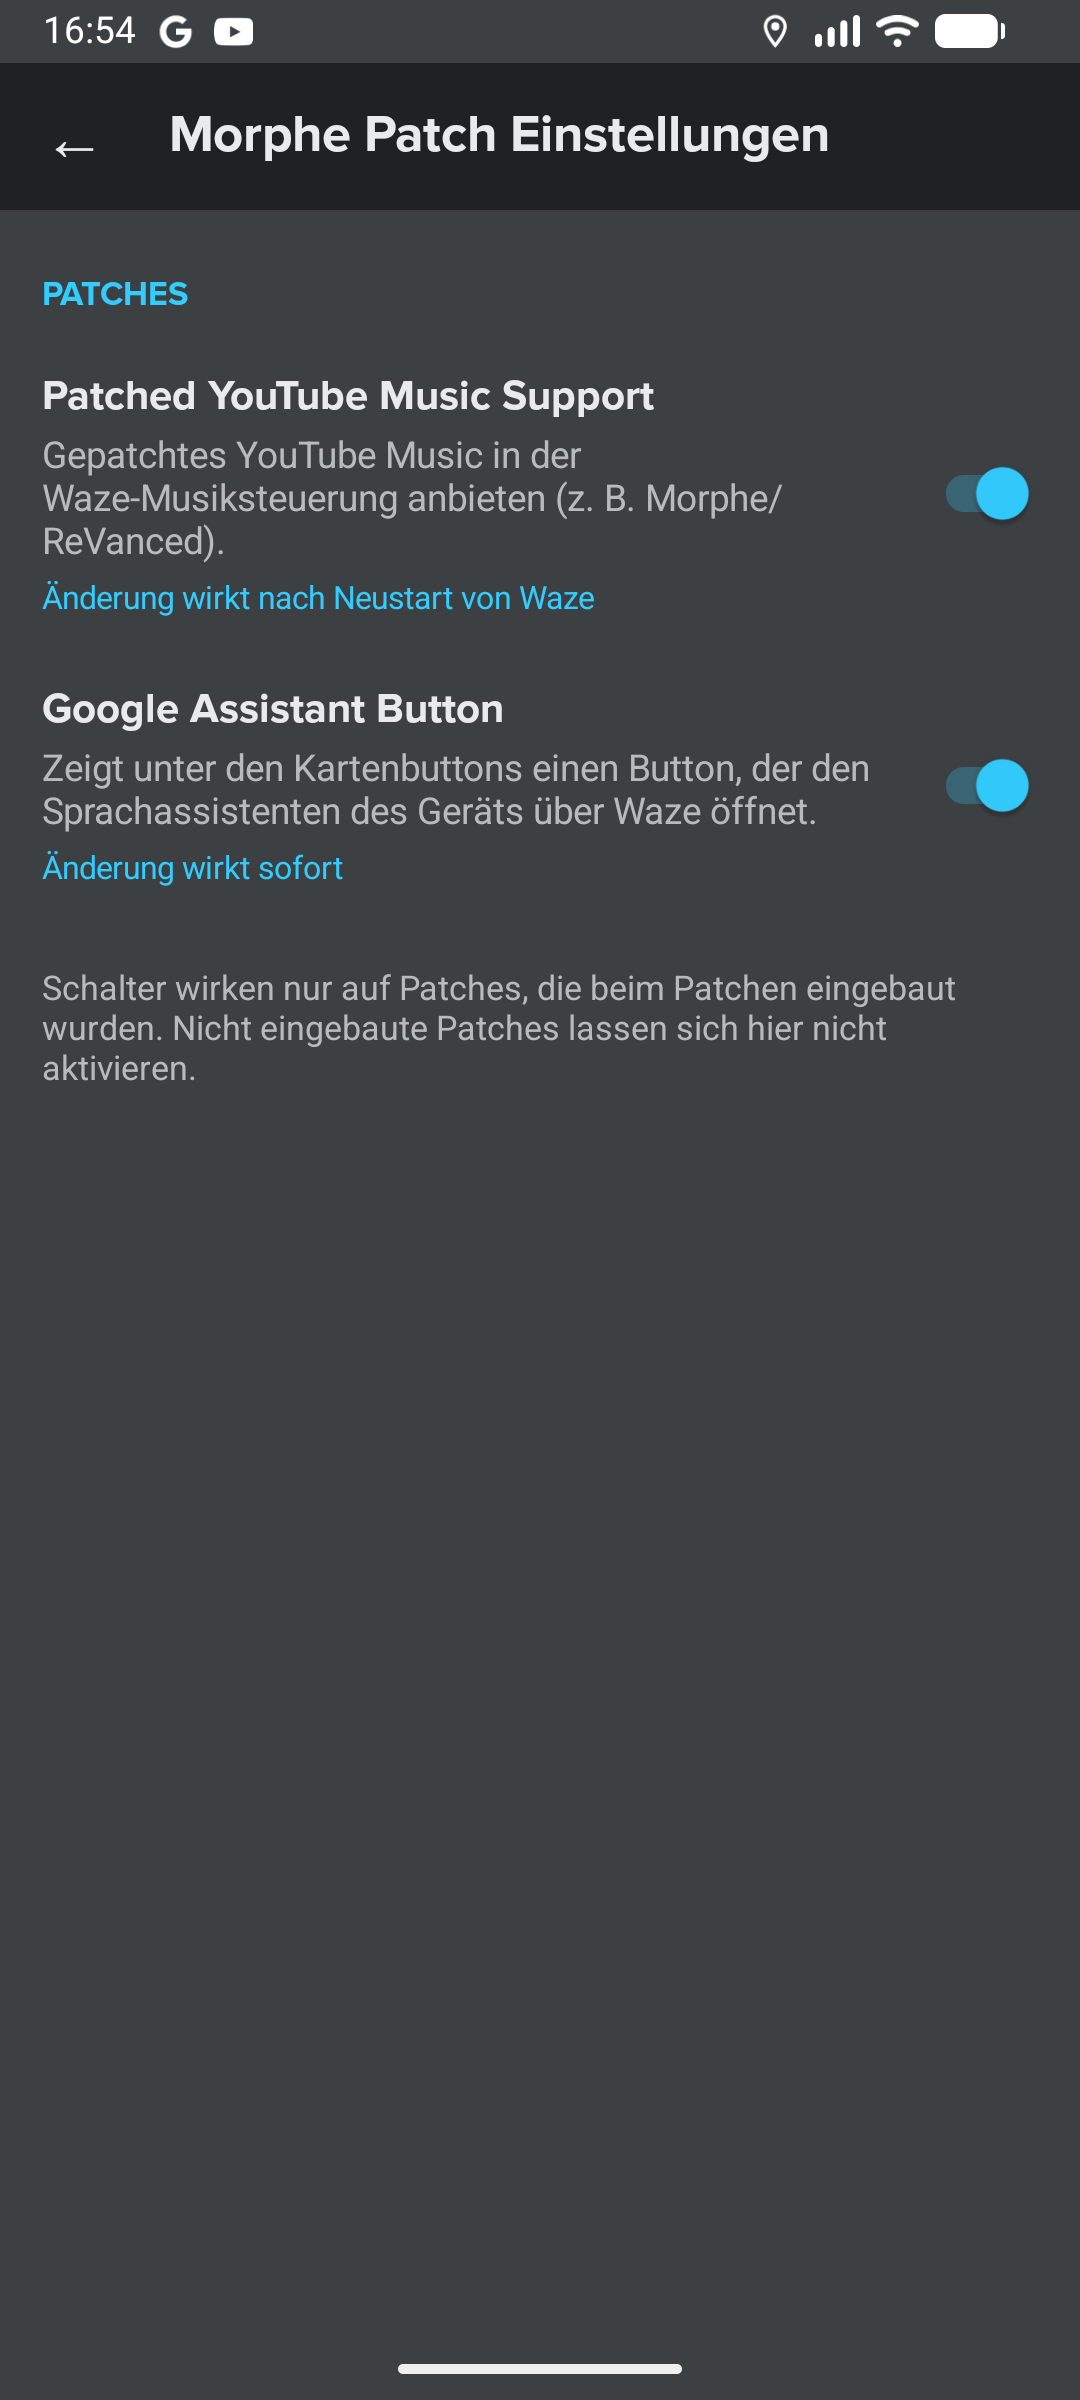
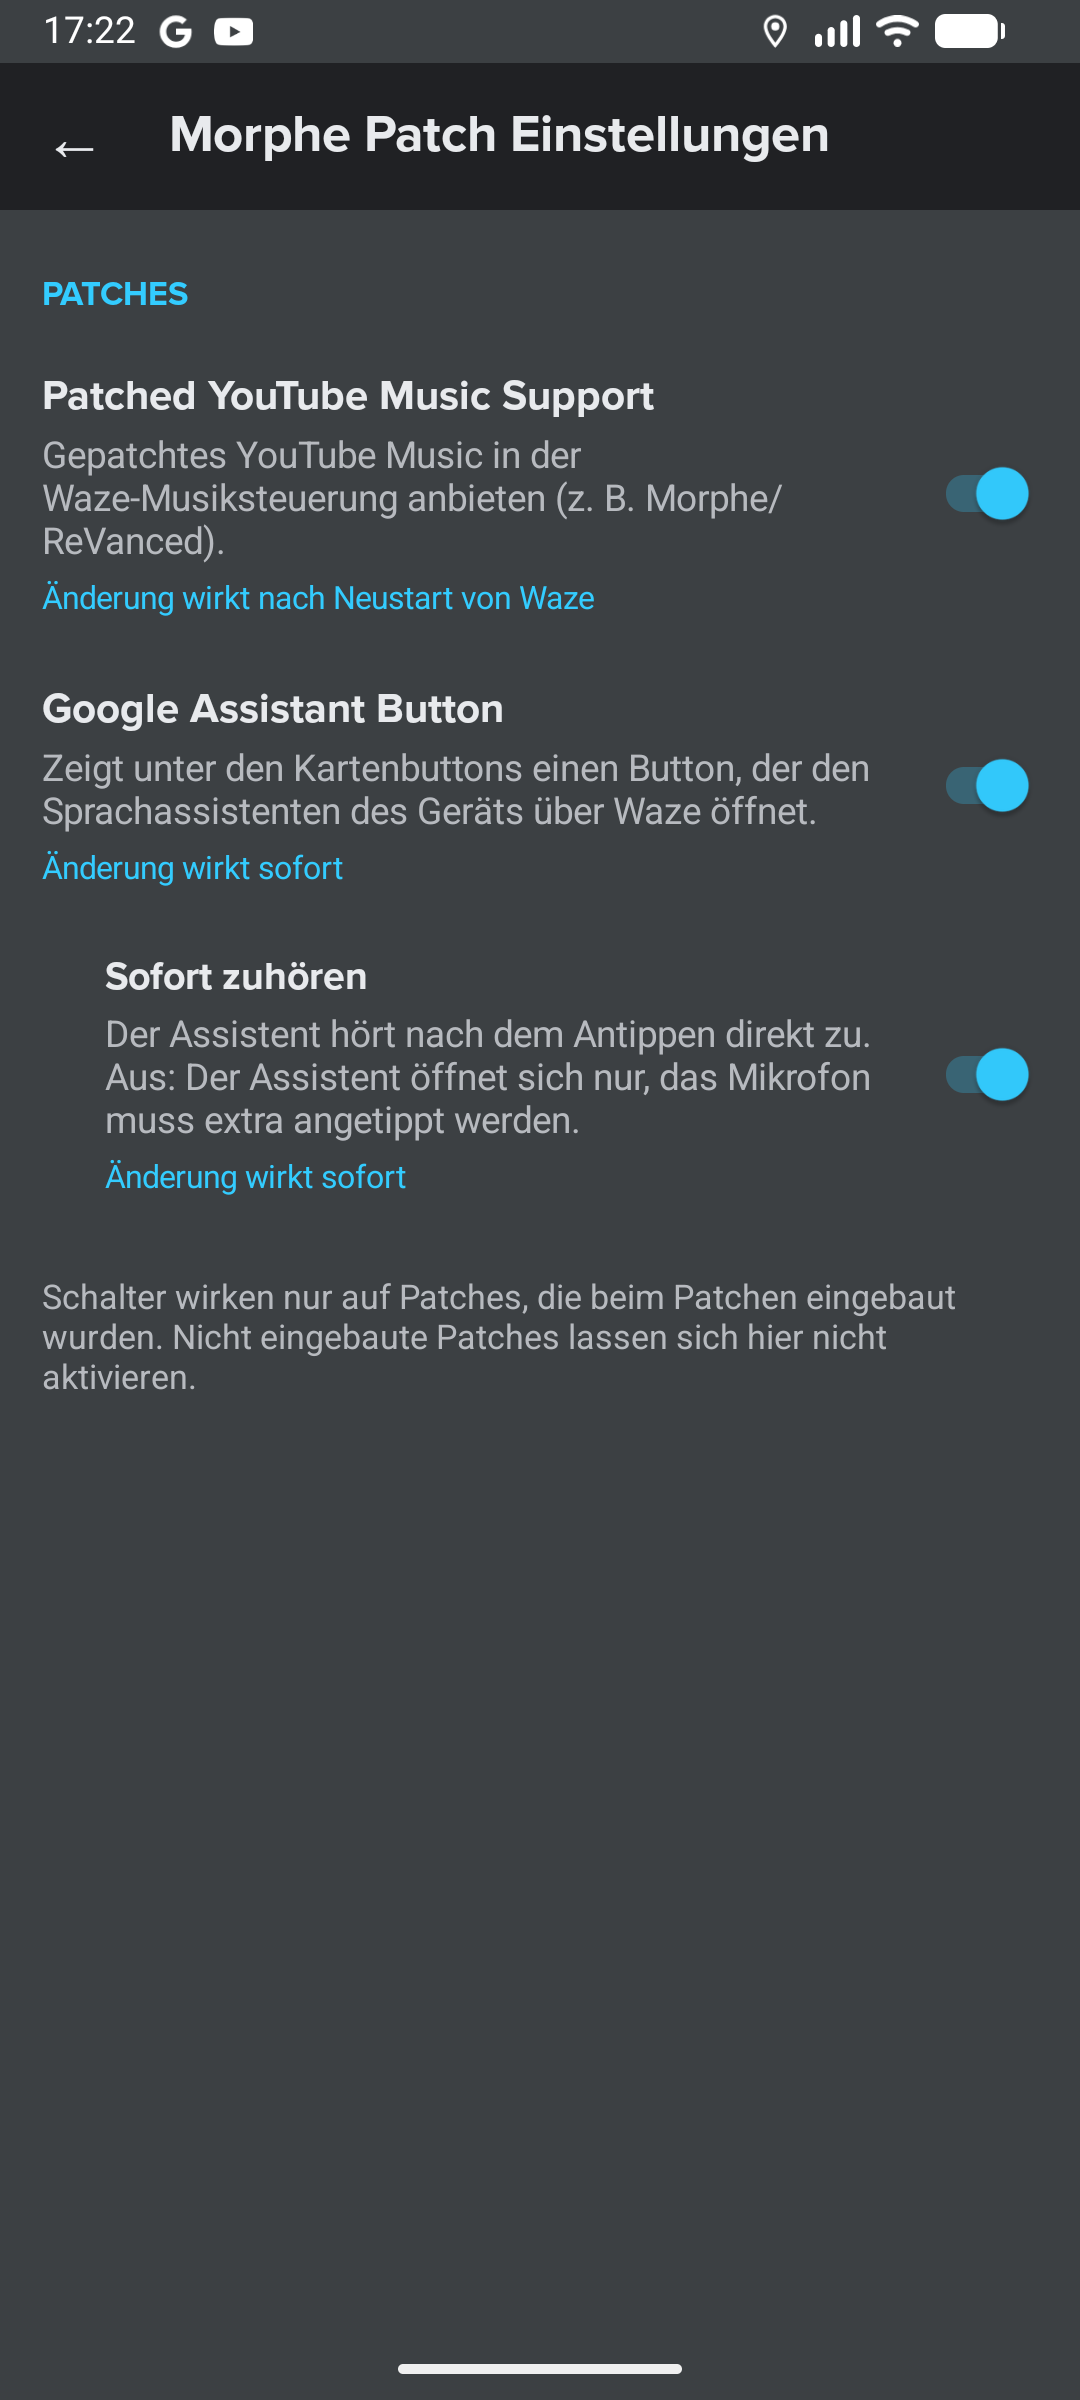
feat: Add "Listen immediately" option for the assistant button
The assistant starts listening right after tapping the map button
(Intent.ACTION_VOICE_COMMAND). It can be turned off in the Morphe patch
settings to only open the assistant like before (Activity.showAssist).
The option is shown below the assistant button switch and is disabled
while the button is off.

Changed region(s): [[0.0306, 0.4062, 0.9472, 0.5], [0.0306, 0.5312, 0.8861, 0.5938], [0.0611, 0.0, 0.1222, 0.0312]]

diff --git a/extensions/waze/src/main/java/app/wazeytm/extension/waze/assistant/AssistantLauncher.java b/extensions/waze/src/main/java/app/wazeytm/extension/waze/assistant/AssistantLauncher.java
@@ -9,17 +9,20 @@ import android.os.Bundle;
 import android.util.Log;
 import android.widget.Toast;
 
+import app.wazeytm.extension.waze.settings.MorpheSettings;
+
 import static app.wazeytm.extension.waze.settings.MorpheSettings.text;
 
 /**
- * Starts the assistant that is configured on the device.
- * <ol>
- *   <li>{@link Activity#showAssist(Bundle)}: Asks the system to show the current assistant
- *   (the same as long pressing home or "Hey Google"). The assistant shows its session on top of
- *   Waze, Waze stays the foreground app.</li>
- *   <li>{@link Intent#ACTION_VOICE_COMMAND}: Fallback, opens the voice command activity of the
- *   assistant app. Depending on the assistant this can cover Waze.</li>
- * </ol>
+ * Starts the assistant that is configured on the device. Both ways show the assistant
+ * on top of Waze (tested with Gemini in the Google app), Waze stays visible below it.
+ * <ul>
+ *   <li>{@link Intent#ACTION_VOICE_COMMAND}: the assistant opens and starts listening.
+ *   Used if "Listen immediately" is enabled.</li>
+ *   <li>{@link Activity#showAssist(Bundle)}: the same as long pressing home. The assistant opens,
+ *   the user taps its microphone to speak.</li>
+ * </ul>
+ * The other way is used as fallback.
  */
 public final class AssistantLauncher {
     private static final String TAG = "MorpheWazeAssistant";
@@ -29,37 +32,54 @@ public final class AssistantLauncher {
 
     public static void launch(Context context) {
         Activity activity = findActivity(context);
+        boolean listenImmediately = MorpheSettings.isEnabled(MorpheSettings.Feature.ASSISTANT_LISTEN_IMMEDIATELY);
 
-        if (activity != null) {
-            try {
-                Bundle args = new Bundle();
-                args.putString("source", "waze_morphe_button");
-                if (activity.showAssist(args)) {
-                    Log.i(TAG, "Assistant session shown with showAssist");
-                    return;
-                }
-                Log.w(TAG, "showAssist returned false (no assistant, disabled, or activity not in foreground)");
-            } catch (Exception ex) {
-                Log.e(TAG, "showAssist failure", ex);
-            }
-        }
-
-        try {
-            Intent intent = new Intent(Intent.ACTION_VOICE_COMMAND);
-            if (activity == null) intent.addFlags(Intent.FLAG_ACTIVITY_NEW_TASK);
-            (activity != null ? activity : context).startActivity(intent);
-            Log.i(TAG, "Assistant started with ACTION_VOICE_COMMAND");
-            return;
-        } catch (ActivityNotFoundException ex) {
-            Log.w(TAG, "No activity for ACTION_VOICE_COMMAND");
-        } catch (Exception ex) {
-            Log.e(TAG, "ACTION_VOICE_COMMAND failure", ex);
-        }
+        boolean started = listenImmediately
+                ? startVoiceCommand(context, activity) || showAssist(activity)
+                : showAssist(activity) || startVoiceCommand(context, activity);
+        if (started) return;
 
         Toast.makeText(context, text(
                 "Kein Sprachassistent gefunden. Bitte in den Android-Einstellungen unter „Standard-Apps“ einen digitalen Assistenten auswählen.",
                 "No voice assistant found. Select a digital assistant app in the Android default apps settings."),
                 Toast.LENGTH_LONG).show();
+    }
+
+    /**
+     * Opens the assistant in listening mode.
+     */
+    private static boolean startVoiceCommand(Context context, Activity activity) {
+        try {
+            Intent intent = new Intent(Intent.ACTION_VOICE_COMMAND);
+            if (activity == null) intent.addFlags(Intent.FLAG_ACTIVITY_NEW_TASK);
+            (activity != null ? activity : context).startActivity(intent);
+            Log.i(TAG, "Assistant started with ACTION_VOICE_COMMAND");
+            return true;
+        } catch (ActivityNotFoundException ex) {
+            Log.w(TAG, "No activity for ACTION_VOICE_COMMAND");
+        } catch (Exception ex) {
+            Log.e(TAG, "ACTION_VOICE_COMMAND failure", ex);
+        }
+        return false;
+    }
+
+    /**
+     * Shows the assistant session of the system (like long pressing home).
+     */
+    private static boolean showAssist(Activity activity) {
+        if (activity == null) return false;
+        try {
+            Bundle args = new Bundle();
+            args.putString("source", "waze_morphe_button");
+            if (activity.showAssist(args)) {
+                Log.i(TAG, "Assistant session shown with showAssist");
+                return true;
+            }
+            Log.w(TAG, "showAssist returned false (no assistant, disabled, or activity not in foreground)");
+        } catch (Exception ex) {
+            Log.e(TAG, "showAssist failure", ex);
+        }
+        return false;
     }
 
     static Activity findActivity(Context context) {

diff --git a/extensions/waze/src/main/java/app/wazeytm/extension/waze/settings/MorpheSettingsActivity.java b/extensions/waze/src/main/java/app/wazeytm/extension/waze/settings/MorpheSettingsActivity.java
@@ -25,7 +25,9 @@ import android.widget.TextView;
 import java.lang.reflect.Field;
 import java.lang.reflect.Modifier;
 
+import java.util.EnumMap;
 import java.util.EnumSet;
+import java.util.Map;
 import java.util.Set;
 
 import static app.wazeytm.extension.waze.settings.MorpheSettings.text;
@@ -37,6 +39,8 @@ import static app.wazeytm.extension.waze.settings.MorpheSettings.text;
 @SuppressWarnings("deprecation")
 public final class MorpheSettingsActivity extends Activity {
     private final Set<MorpheSettings.Feature> changedRestartFeatures = EnumSet.noneOf(MorpheSettings.Feature.class);
+    private final Map<MorpheSettings.Feature, View> rows = new EnumMap<>(MorpheSettings.Feature.class);
+    private final Map<MorpheSettings.Feature, Switch> toggles = new EnumMap<>(MorpheSettings.Feature.class);
     private View restartBanner;
 
     private int backgroundColor;
@@ -135,6 +139,8 @@ public final class MorpheSettingsActivity extends Activity {
             content.addView(createDivider());
         }
 
+        updateOptionRows();
+
         TextView footer = createText(text(
                 "Schalter wirken nur auf Patches, die beim Patchen eingebaut wurden. "
                         + "Nicht eingebaute Patches lassen sich hier nicht aktivieren.",
@@ -194,12 +200,14 @@ public final class MorpheSettingsActivity extends Activity {
         row.setOrientation(LinearLayout.HORIZONTAL);
         row.setGravity(Gravity.CENTER_VERTICAL);
         row.setBackgroundColor(surfaceColor);
-        row.setPadding(dp(16), dp(12), dp(16), dp(12));
+        // Options of a patch are indented below it.
+        int indent = feature.getParent() == null ? dp(16) : dp(40);
+        row.setPadding(indent, dp(12), dp(16), dp(12));
 
         LinearLayout texts = new LinearLayout(this);
         texts.setOrientation(LinearLayout.VERTICAL);
 
-        TextView title = createText(feature.getTitle(), 16, textColor);
+        TextView title = createText(feature.getTitle(), feature.getParent() == null ? 16 : 15, textColor);
         title.setTypeface(boldFont);
         texts.addView(title);
 
@@ -230,6 +238,7 @@ public final class MorpheSettingsActivity extends Activity {
         toggle.setTrackTintList(new ColorStateList(states, new int[]{primaryColor, secondaryTextColor}));
         toggle.setOnCheckedChangeListener((button, checked) -> {
             MorpheSettings.setEnabled(feature, checked);
+            updateOptionRows();
             if (feature.requiresRestart) {
                 if (!changedRestartFeatures.remove(feature)) changedRestartFeatures.add(feature);
                 restartBanner.setVisibility(changedRestartFeatures.isEmpty() ? View.GONE : View.VISIBLE);
@@ -242,11 +251,31 @@ public final class MorpheSettingsActivity extends Activity {
 
         if (included) {
             row.setBackground(selectableBackground());
-            row.setOnClickListener(v -> toggle.toggle());
+            row.setOnClickListener(v -> {
+                if (toggle.isEnabled()) toggle.toggle();
+            });
         } else {
             row.setAlpha(0.6f);
         }
+        rows.put(feature, row);
+        toggles.put(feature, toggle);
         return row;
+    }
+
+    /**
+     * Options only work while their patch is enabled. Disable them otherwise.
+     */
+    private void updateOptionRows() {
+        for (Map.Entry<MorpheSettings.Feature, Switch> entry : toggles.entrySet()) {
+            MorpheSettings.Feature feature = entry.getKey();
+            MorpheSettings.Feature parent = feature.getParent();
+            if (parent == null || !feature.isIncluded()) continue;
+            Switch parentToggle = toggles.get(parent);
+            boolean active = parentToggle != null && parentToggle.isChecked();
+            entry.getValue().setEnabled(active);
+            View row = rows.get(feature);
+            if (row != null) row.setAlpha(active ? 1f : 0.5f);
+        }
     }
 
     private View createRestartBanner() {

diff --git a/extensions/waze/src/main/java/app/wazeytm/extension/waze/settings/MorpheSettings.java b/extensions/waze/src/main/java/app/wazeytm/extension/waze/settings/MorpheSettings.java
@@ -22,6 +22,7 @@ public final class MorpheSettings {
         PATCHED_YOUTUBE_MUSIC(
                 "patched_youtube_music_support",
                 "Patched YouTube Music Support",
+                "Patched YouTube Music Support",
                 "Gepatchtes YouTube Music in der Waze-Musiksteuerung anbieten (z. B. Morphe/ReVanced).",
                 "Offer patched YouTube Music (e.g. Morphe/ReVanced) in the Waze music controls.",
                 true
@@ -34,6 +35,7 @@ public final class MorpheSettings {
         GOOGLE_ASSISTANT_BUTTON(
                 "google_assistant_button",
                 "Google Assistant Button",
+                "Google Assistant Button",
                 "Zeigt unter den Kartenbuttons einen Button, der den Sprachassistenten des Geräts über Waze öffnet.",
                 "Shows a map button below the other map buttons that opens the device assistant on top of Waze.",
                 false
@@ -42,10 +44,29 @@ public final class MorpheSettings {
             public boolean isIncluded() {
                 return PatchRegistry.googleAssistantButtonIncluded();
             }
+        },
+        ASSISTANT_LISTEN_IMMEDIATELY(
+                "google_assistant_listen_immediately",
+                "Sofort zuhören",
+                "Listen immediately",
+                "Der Assistent hört nach dem Antippen direkt zu. Aus: Der Assistent öffnet sich nur, das Mikrofon muss extra angetippt werden.",
+                "The assistant listens right after tapping the button. Off: the assistant only opens, tap its microphone to speak.",
+                false
+        ) {
+            @Override
+            public boolean isIncluded() {
+                return PatchRegistry.googleAssistantButtonIncluded();
+            }
+
+            @Override
+            public Feature getParent() {
+                return GOOGLE_ASSISTANT_BUTTON;
+            }
         };
 
         public final String key;
-        private final String title;
+        private final String titleDe;
+        private final String titleEn;
         private final String descriptionDe;
         private final String descriptionEn;
         /**
@@ -53,9 +74,11 @@ public final class MorpheSettings {
          */
         public final boolean requiresRestart;
 
-        Feature(String key, String title, String descriptionDe, String descriptionEn, boolean requiresRestart) {
+        Feature(String key, String titleDe, String titleEn, String descriptionDe, String descriptionEn,
+                boolean requiresRestart) {
             this.key = key;
-            this.title = title;
+            this.titleDe = titleDe;
+            this.titleEn = titleEn;
             this.descriptionDe = descriptionDe;
             this.descriptionEn = descriptionEn;
             this.requiresRestart = requiresRestart;
@@ -66,8 +89,16 @@ public final class MorpheSettings {
          */
         public abstract boolean isIncluded();
 
+        /**
+         * @return The feature this option belongs to, or null for a patch.
+         * An option is shown below its parent and only works if the parent is enabled.
+         */
+        public Feature getParent() {
+            return null;
+        }
+
         public String getTitle() {
-            return title;
+            return isGerman() ? titleDe : titleEn;
         }
 
         public String getDescription() {

diff --git a/README.md b/README.md
@@ -53,7 +53,7 @@ Then select Waze in Morphe Manager, apply the patches and install the patched Wa
 
 | Assistant button on the map | Assistant on top of Waze | Settings entry | Morphe patch settings |
 |:---:|:---:|:---:|:---:|
-| <img src="docs/images/assistant-button.png" width="200"> | <img src="docs/images/assistant-overlay.png" width="200"> | <img src="docs/images/settings-entry.png" width="200"> | <img src="docs/images/morphe-settings-restart.png" width="200"> |
+| <img src="docs/images/assistant-button.png" width="200"> | <img src="docs/images/assistant-overlay.png" width="200"> | <img src="docs/images/settings-entry.png" width="200"> | <img src="docs/images/morphe-settings.png" width="200"> |
 
 ## ⚙ Turning features on and off
 
@@ -63,6 +63,7 @@ Open **Waze → Settings → Morphe Patch Einstellungen** (at the bottom, above 
 |---|---|
 | Patched YouTube Music Support | After restarting Waze. The page shows a **Restart** button. |
 | Google Assistant Button | Immediately. The button appears or disappears on the map. |
+| ↳ Listen immediately (*Sofort zuhören*) | Immediately. On: the assistant starts listening right after tapping the button. Off: the assistant only opens, tap its microphone to speak. Only available while the button is on. |
 
 * The settings are saved in Waze (`shared_prefs/morphe_patch_settings.xml`) and are kept after a restart.
 * All features are on by default.
@@ -72,15 +73,21 @@ Open **Waze → Settings → Morphe Patch Einstellungen** (at the bottom, above 
 
 ## 🎙 Google Assistant Button
 
-The button calls [`Activity.showAssist()`](https://developer.android.com/reference/android/app/Activity#showAssist(android.os.Bundle)),
-the official way for an app to show the assistant that is selected as *digital assistant app*
-in the Android settings. This is the same as long-pressing the home button: the assistant shows its own
-overlay on top of Waze, and Waze stays the navigation app below it.
+The button opens the assistant that is selected as *digital assistant app* in the Android settings,
+using the official Android interfaces. The assistant shows its own overlay on top of Waze, and Waze stays
+the navigation app below it.
+
+| Listen immediately | Interface | Behavior (tested with Gemini in the Google app) |
+|---|---|---|
+| On (default) | [`Intent.ACTION_VOICE_COMMAND`](https://developer.android.com/reference/android/content/Intent#ACTION_VOICE_COMMAND) | Overlay opens and the microphone is recording right away |
+| Off | [`Activity.showAssist()`](https://developer.android.com/reference/android/app/Activity#showAssist(android.os.Bundle)) | Overlay opens like long-pressing home, tap the microphone to speak |
+
+The other interface is used as fallback if the first one is not available.
 
 * The look of the assistant overlay is controlled by the assistant app (Google Assistant or Gemini), not by Waze.
   Waze cannot make it more transparent.
-* If no assistant is selected, the button falls back to `Intent.ACTION_VOICE_COMMAND`, which can open the
-  assistant full screen. If that is not available either, a message explains how to select an assistant.
+* If no assistant is available at all, a message explains how to select one.
+* The button slides out and in together with the audio and sound buttons, for example while the map is moved or zoomed.
 * There is no separate speech recognition. All voice commands are handled by the real assistant.
 * The button has the same size (56dp), shadow, colors (day and night) and spacing as the Waze map buttons.
 
@@ -123,7 +130,9 @@ The settings page reads the Waze day/night mode from `AppCompatDelegate` (found 
 
 The map buttons are a Jetpack Compose column (`ButtonPackPortrait`) or row (`ButtonPackLandscape`).
 The patch calls the extension right before the column/row is closed, and the extension adds the button with
-Compose's `AndroidView`. The methods are found by their Compose trace strings
+Compose's `AndroidView`. Waze hides its buttons by sliding them off screen with an offset that it passes to
+every `ButtonPackButton(button, onClick, offsetX, offsetY, ...)` call. The patch passes the same offset to the
+extension, which moves the assistant button with them. The methods are found by their Compose trace strings
 (`com.waze.main_screen.button_pack.ButtonPackPortrait (`), which are not obfuscated.
 
 ## 🧪 Testing status
@@ -140,7 +149,10 @@ deep link `waze://?a=settings`.
 | Switches, saved after restart, restart button, YouTube Music support off after restart | ✅ |
 | Assistant button below the sound button with the same size, color and spacing | ✅ |
 | Assistant button hides/shows immediately when switched | ✅ |
-| Button opens the assistant as overlay on top of Waze (`showAssist`) | ✅ |
+| Button opens the assistant as overlay on top of Waze | ✅ |
+| Listen immediately on: assistant records right away (`ACTION_VOICE_COMMAND`); off: no recording (`showAssist`) | ✅ |
+| Option is disabled while the assistant button is off | ✅ |
+| Button slides out with the other buttons when the map is moved and back in after re-centering; no tap while hidden | ✅ |
 | Assistant button during active navigation | ⚠ not tested (needs a signed-in Waze) |
 | Landscape layout | ⚠ not tested |
 | Play/pause/skip of YouTube Music from Waze | ⚠ not tested |
